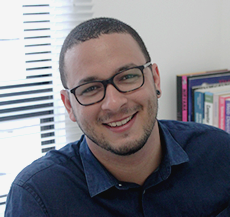
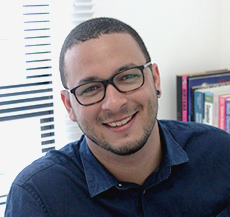
Changing print image

diff --git a/_site/sound-level-meter-using-esp8266-arduino-sound-detector.html b/_site/sound-level-meter-using-esp8266-arduino-sound-detector.html
@@ -115,7 +115,7 @@ Furthermore, three LEDs would be able to alert the user about the loudness: if t
 <p>As a way of testing the system, I used the ThingSpeak server to update data directly from my device to the cloud. By using their API, I could read the data coming as a JSON object, parse it, and print it to the user. I set some pins on the map, where the user would hypothetically choose the place he wanted to monitor, and then notify by email or call in case it is being loud.</p>
 
 <p><br/>
-<img src="./static/img/rm.png" width="279" height="496" class="img-responsive center-block" />
+<img src="./static/img/print.png" width="875" height="480" class="img-responsive center-block" />
 <br/>
 The points on the map are from a central part of Recife, the city I live. The idea is to have several devices spread around a given city, updating data about how noisy is the location at any time. Finally, in the video I explain how the hardware and the software work together. :)</p>
 

diff --git a/_site/index.html b/_site/index.html
@@ -70,7 +70,7 @@
 	  <div class="avatar">
 		<img class="img-circle" src="static/img/profile.png" alt="Responsive image">
 	  </div>
-	  <h3>I'm <strong>Thiago Ribeiro</strong>, a Computer Engineering student.</h3>
+	  <h3>Hi, I'm <strong>Thiago Ribeiro</strong>, a Computer Engineering student.</h3>
 	  <h3>I love sharing content about technology on the web.</h3>
 	  <h3>Have a look at some of my projects that I <a href="/blog.html"> blog</a> about.</h3>
 	  <h3>For more check out my academic &amp; professional <a href="http://toribeiro.com/static/resume/TR-Resume-English.pdf" target="_blank">Resume</a>.</h3>

diff --git a/_site/page2/index.html b/_site/page2/index.html
@@ -70,7 +70,7 @@
 	  <div class="avatar">
 		<img class="img-circle" src="static/img/profile.png" alt="Responsive image">
 	  </div>
-	  <h3>I'm <strong>Thiago Ribeiro</strong>, a Computer Engineering student.</h3>
+	  <h3>Hi, I'm <strong>Thiago Ribeiro</strong>, a Computer Engineering student.</h3>
 	  <h3>I love sharing content about technology on the web.</h3>
 	  <h3>Have a look at some of my projects that I <a href="/blog.html"> blog</a> about.</h3>
 	  <h3>For more check out my academic &amp; professional <a href="http://toribeiro.com/static/resume/TR-Resume-English.pdf" target="_blank">Resume</a>.</h3>
